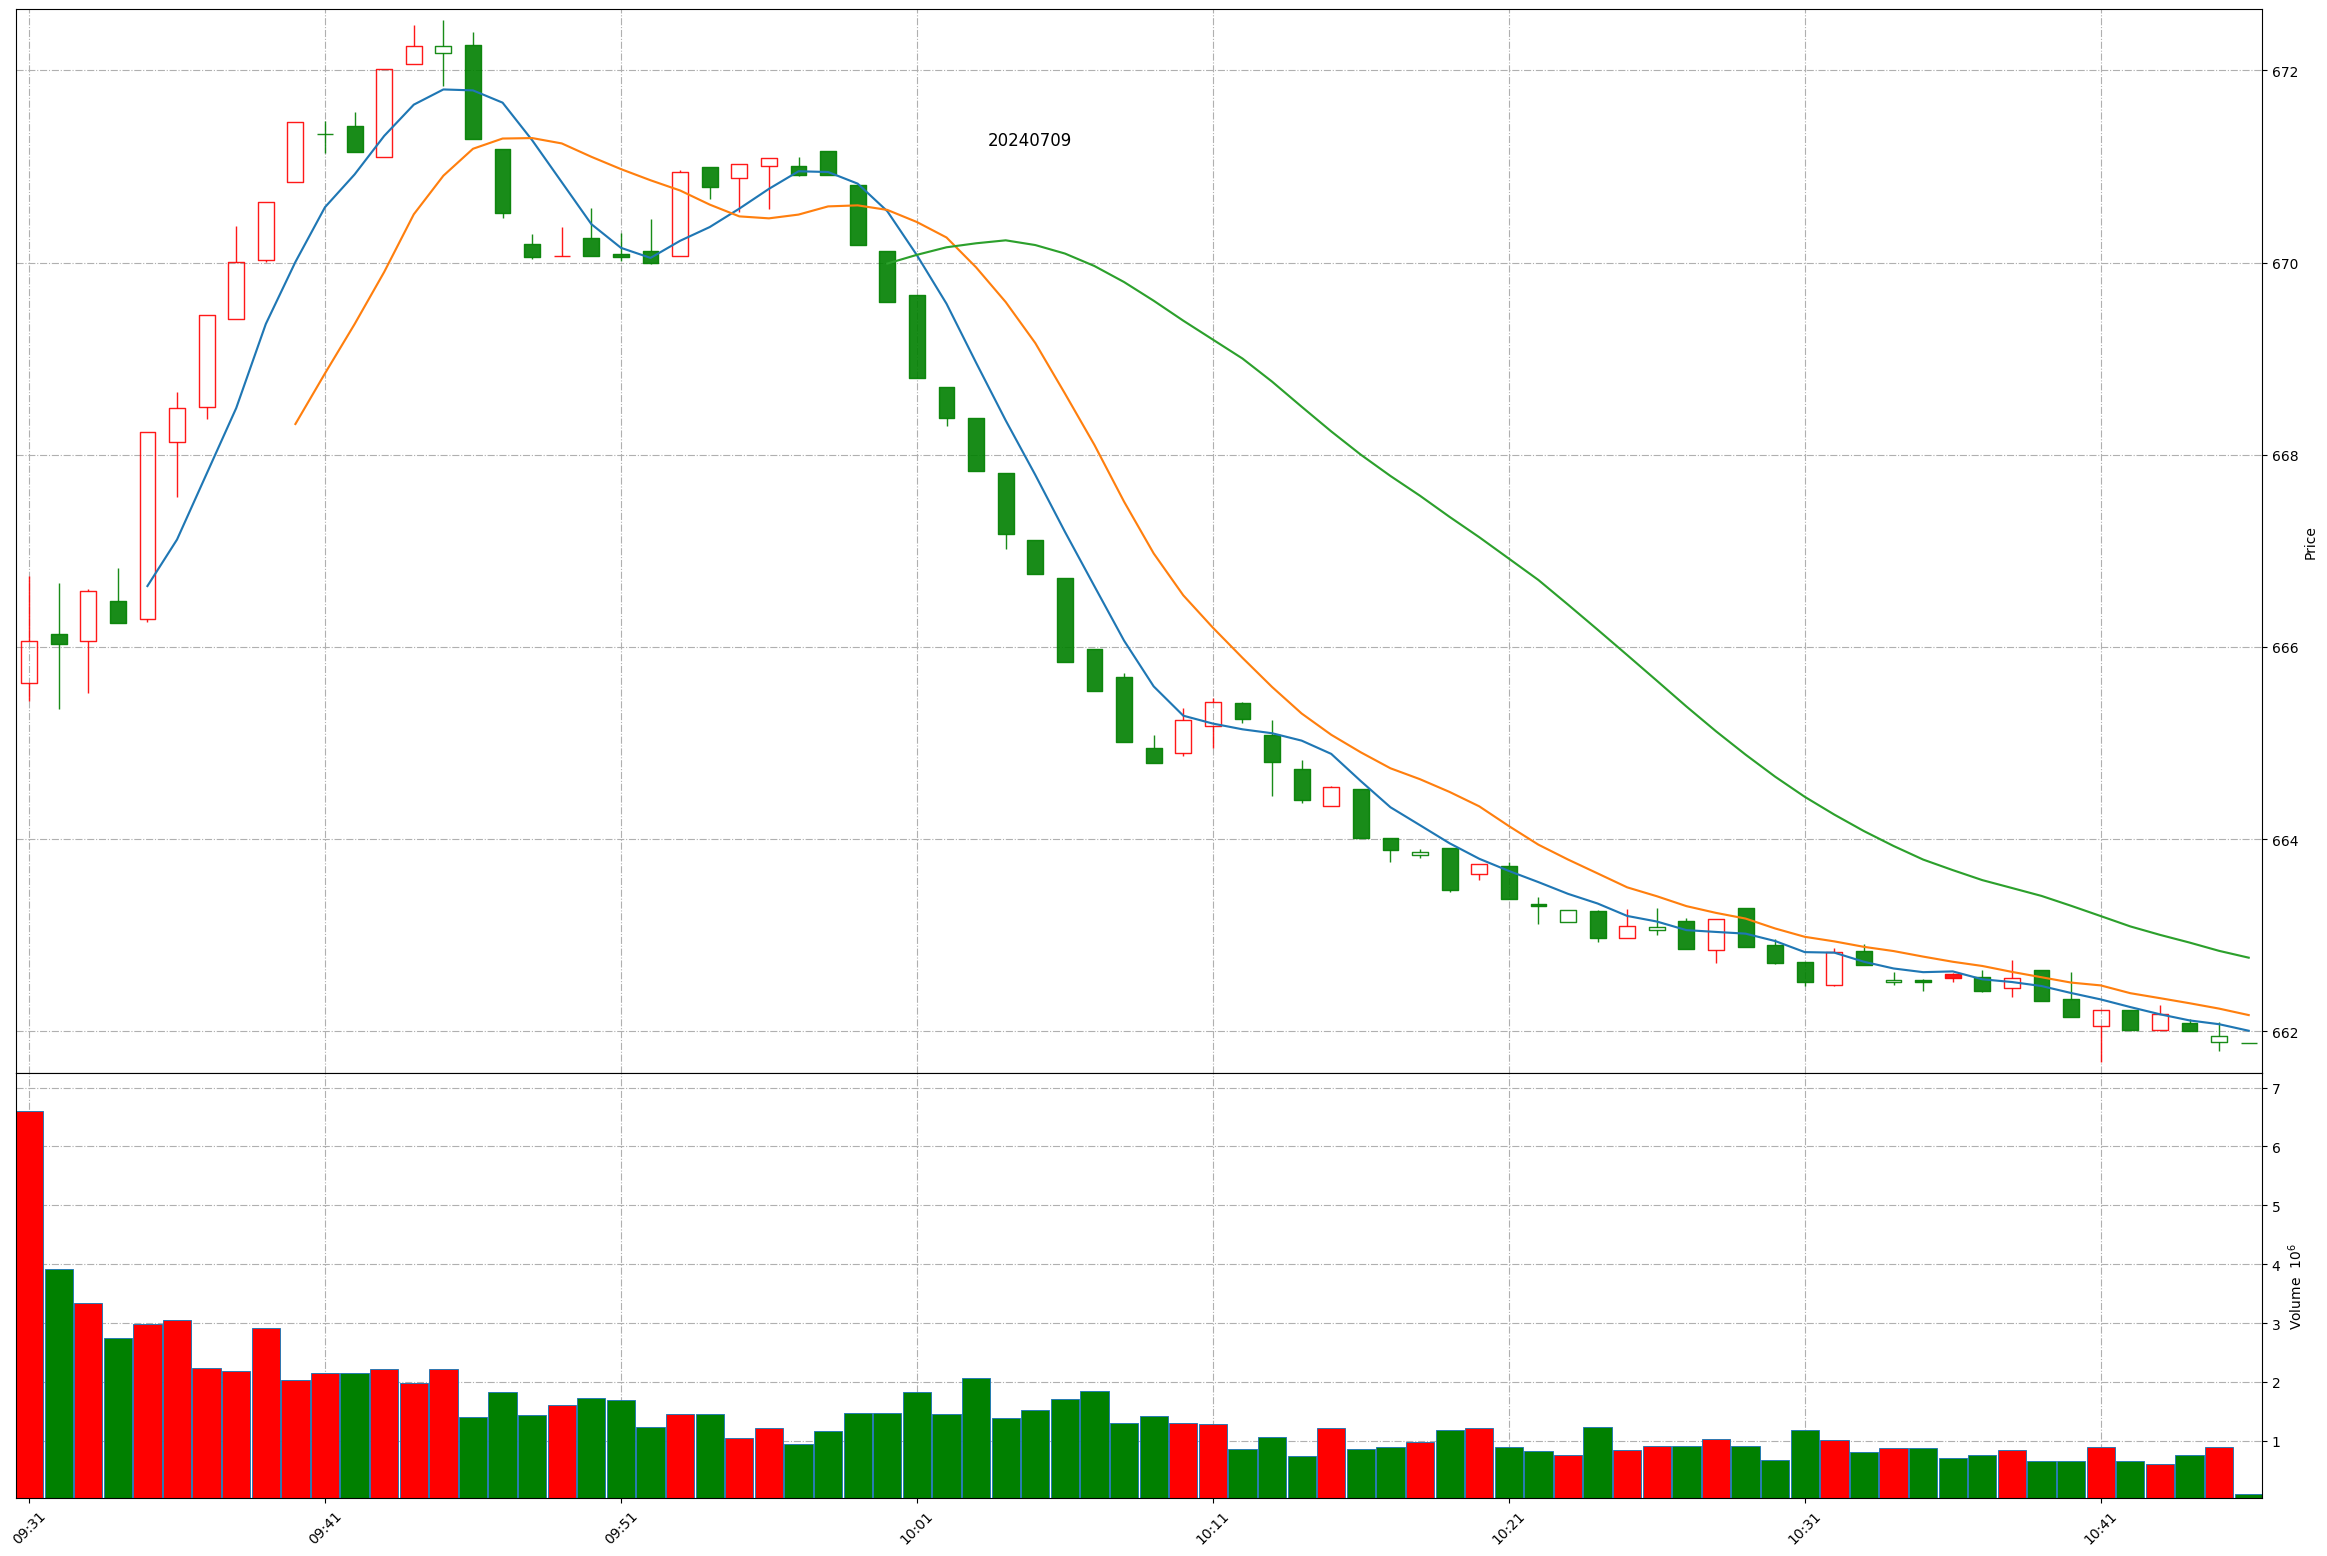
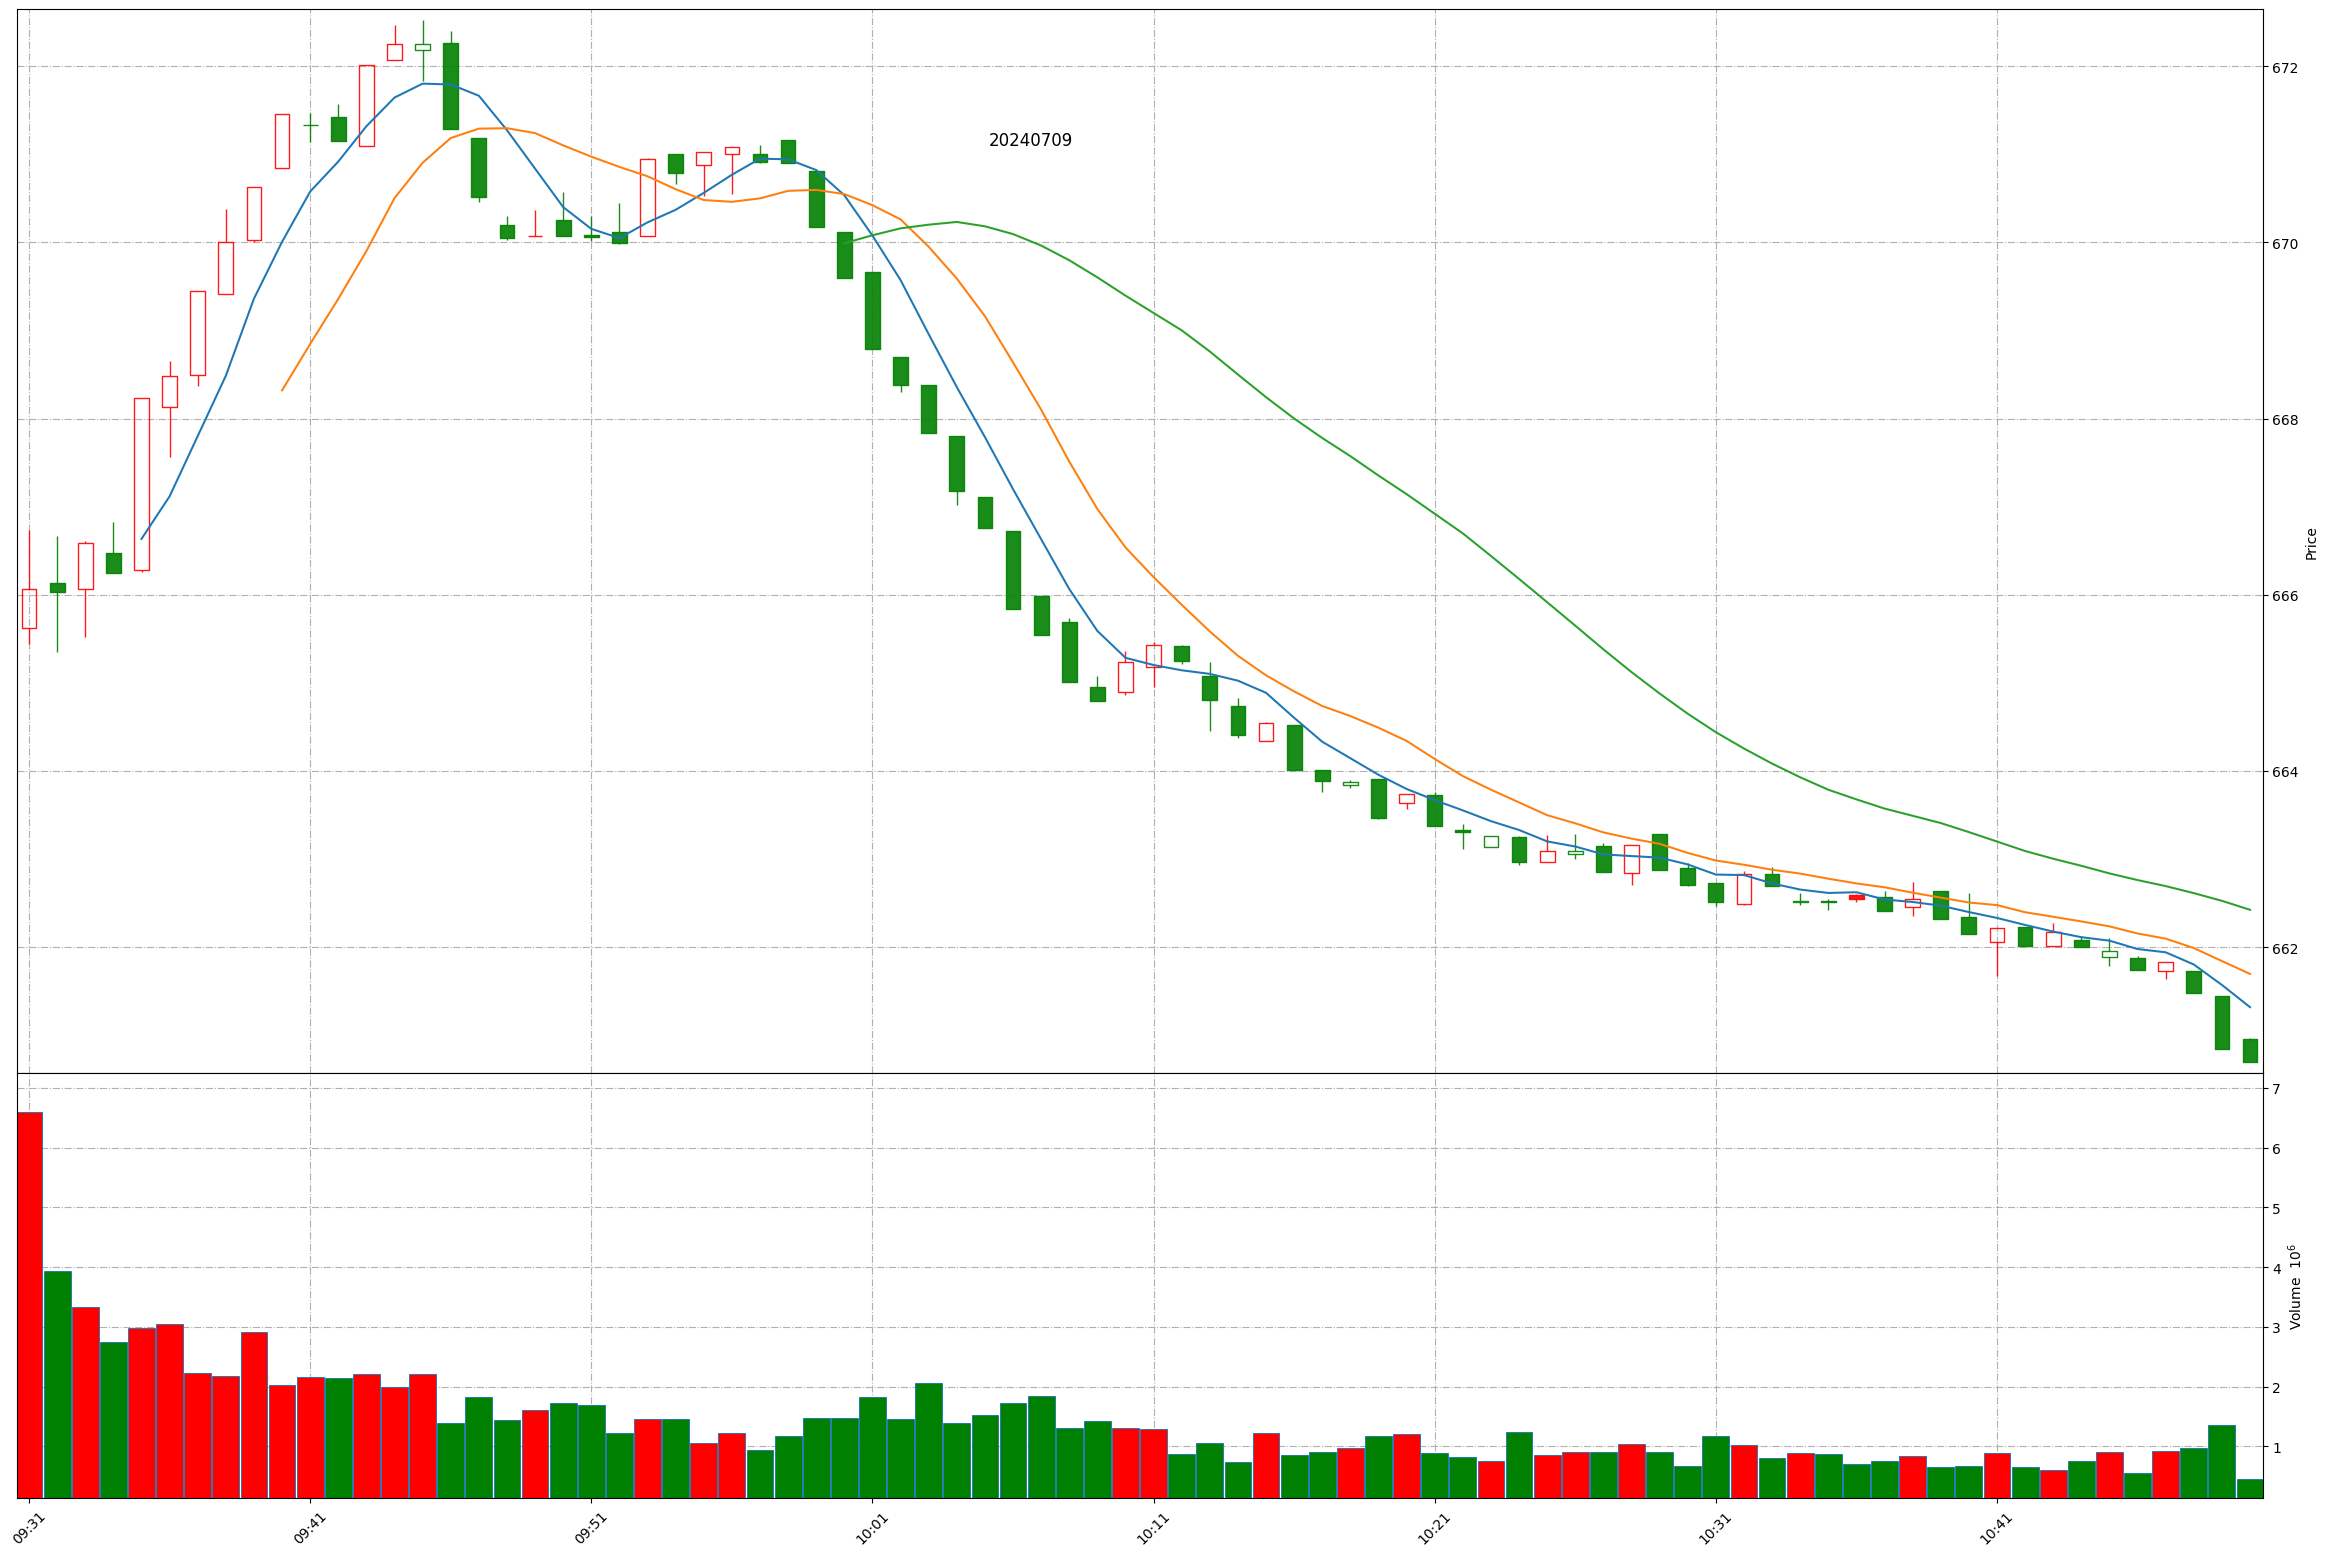
Github action update at 2024-07-09 10:49:33.

diff --git a/README.md b/README.md
@@ -1,11 +1,11 @@
 
 # Daily-A-share-market-quotes 每日 A 股指数（5min 更新）- 20240709
 
-### 上证指数 20240709 10:45
+### 上证指数 20240709 10:49
 ![](./fig/2024/7/20240709-sh000001.png)
 
-### 深证成指 20240709 10:45
+### 深证成指 20240709 10:49
 ![](./fig/2024/7/20240709-sz399001.png)
 
-### 北证50 20240709 10:45
+### 北证50 20240709 10:49
 ![](./fig/2024/7/20240709-bj899050.png)
